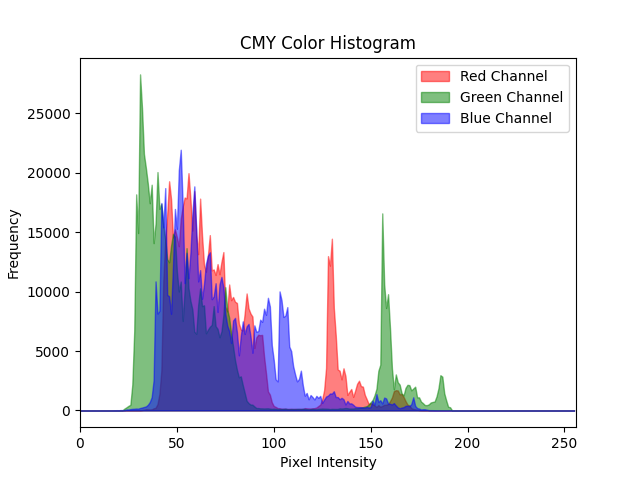
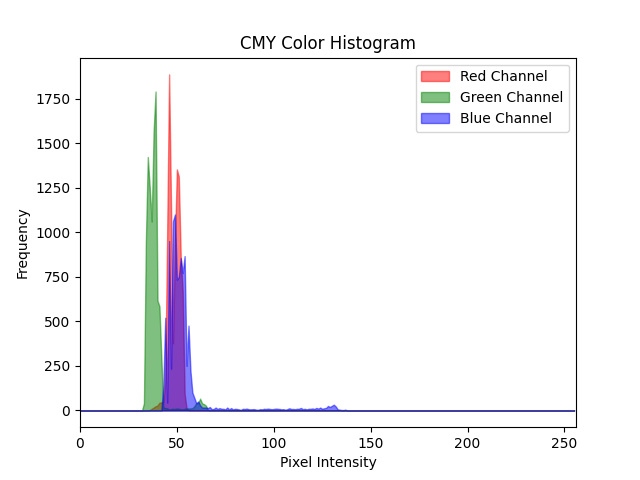
updated colour histogram algorithm

diff --git a/create_colour_hist.py b/create_colour_hist.py
@@ -2,58 +2,54 @@ import cv2
 import numpy as np
 import matplotlib.pyplot as plt
 import os
+from transformations import cmyConversion
 
 ## This script creates a colour histogram of each colourspace shift, as a justification for using CMY over any other colourspace
 
-
-# Paths and corresponding names
-paths = [
-    "colour_spaces/RGB.png",
-    "colour_spaces/cmy_image.jpg",
-    "colour_spaces/grey.jpg",
-    "colour_spaces/HLS.jpg",
-    "colour_spaces/HSV.jpg",
-    "colour_spaces/YCR_CB.jpg",
-    "colour_spaces/YCrCb.jpg",
-    "colour_spaces/YUV.jpg"
-]
-names = ["RGB","CMY", "Grey", "HLS", "HSV", "YCrCb (YCR_CB)", "YCrCb", "YUV"]
-
-# Loop through each path and corresponding name
-for path, name in zip(paths, names):
-    # Load an image
-    image = cv2.imread(path)
-    if image is None:
-        print(f"Failed to load image at {path}. Please check the file path.")
-        continue
-
-    # Convert image from BGR to RGB if not a greyscale image
-    # if len(image.shape) == 3:  # Checking if the image has three channels
-    #     image = cv2.cvtColor(image, cv2.COLOR_BGR2RGB)
-
-    # Determine number of channels
+def create_histogram(image, color_space, save_path):
+    """Create and save a color histogram for an image in a given color space."""
     num_channels = 1 if len(image.shape) == 2 else 3
-
-    # Initialize the color list and labels for RGB or greyscale
     colors = ('r', 'g', 'b') if num_channels == 3 else ('black',)
     channel_labels = ('Red Channel', 'Green Channel', 'Blue Channel') if num_channels == 3 else ('Intensity',)
 
     plt.figure()
-    # Create histograms for each color channel
     for i in range(num_channels):
         hist = cv2.calcHist([image], [i], None, [256], [0, 256])
         plt.fill_between(range(256), hist.flatten(), color=colors[i], alpha=0.5, label=channel_labels[i])
 
-    # Customize plot settings
     plt.xlim([0, 256])
-    plt.title(f"{name} Color Histogram")
+    plt.title(f"{color_space} Color Histogram")
     plt.xlabel('Pixel Intensity')
     plt.ylabel('Frequency')
     plt.legend(loc='upper right')
-
-    # Save the plot
-    output_path = os.path.join("colour_spaces_histograms", f"{name.lower()}_histogram.png")
-    plt.savefig(output_path)
+    plt.savefig(save_path)
     plt.close()
-    print(f"Saved histogram to {output_path}")
 
+def process_image(image_path, output_dir):
+    """Process an image, convert it to various color spaces, and create histograms."""
+    image = cv2.imread(image_path)
+    if image is None:
+        print(f"Failed to load image at {image_path}. Please check the file path.")
+        return
+
+    color_spaces = {
+        'RGB': image,
+        'Grayscale': cv2.cvtColor(image, cv2.COLOR_BGR2GRAY),
+        'HLS': cv2.cvtColor(image, cv2.COLOR_BGR2HLS),
+        'HSV': cv2.cvtColor(image, cv2.COLOR_BGR2HSV),
+        'YUV': cv2.cvtColor(image, cv2.COLOR_BGR2YUV),
+        'YCrCb': cv2.cvtColor(image, cv2.COLOR_BGR2YCrCb),
+        'CMY': cmyConversion(image)
+    }
+
+    if not os.path.exists(output_dir):
+        os.makedirs(output_dir)
+
+    for color_space, converted_image in color_spaces.items():
+        save_path = os.path.join(output_dir, f"{color_space.lower()}_histogram.png")
+        create_histogram(converted_image, color_space, save_path)
+        print(f"Saved {color_space} histogram to {save_path}")
+
+image_path = 'imgs/testing images/aim point justification/first testing img/rightDot.png'
+output_dir = 'colour_spaces_histograms'
+process_image(image_path, output_dir)
